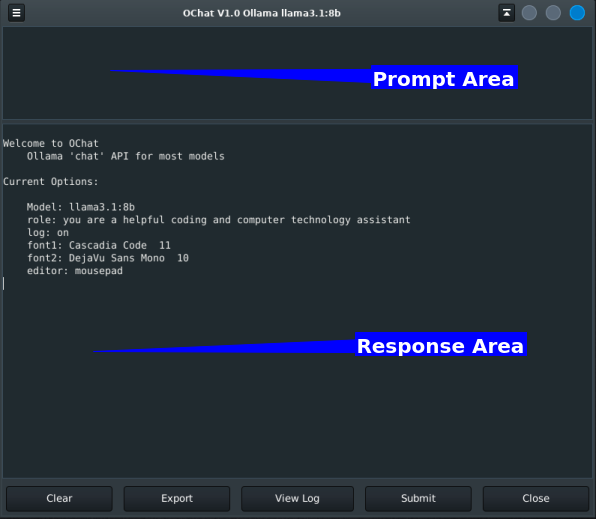
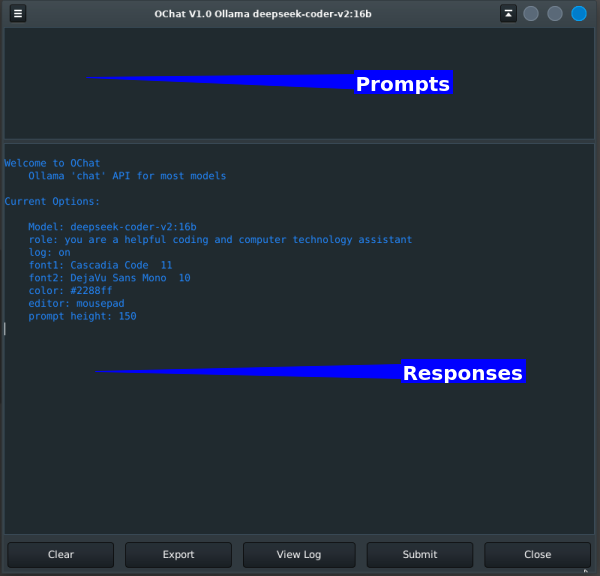
readme

diff --git a/README.md b/README.md
@@ -1,5 +1,5 @@
 # OChat
-### Desktop AI chat for Ollama models
+### Desktop AI chat for [Ollama](https://github.com/ollama/ollama "title") models
 
 _Mostly for Linux (might work on Windows)_
 
@@ -9,34 +9,46 @@ _GUI desktop AI client for conversing with
 Of course you will need the Ollama runtime  
 download from  [Ollams.com](https://ollama.com/ "title")  
 
-Suggest 32G memory and very fast CPU. GPU if you got it.
-    
-![image of the app on the desktop](images/startup.png "GUI")
+Suggest 32G memory and a core i9 CPU, or GPU.
 
-<table>
-<tr><td>Clear</td><td>Starts new conversation</td></tr>
-<tr><td>Export</td><td>Transfers response markdown to HTML in system default browser</td></tr>
-<tr><td>View log</td><td>View log text in the response pane</td></tr>  
-<tr><td>Submit</td><td>Send query to the AI (Ctrl-G)</td></tr>  
-<tr><td>Close</td><td>Exit application</td></tr>  
-</table>
+<center>
+![image of the app on the desktop](images/startup.png "GUI")
+</center>
+
+| Button | Action | 
+| ---: | :--- | 
+|**Clear**|Starts new conversation|
+|**Export**|Transfers response markdown to HTML in system default browser|
+|**View log**|View log text in the response pane|
+|**Submit**|Send query to the AI (Ctrl-G)|
+|**Close**|Exit application|
+
+---
 
 ### Keyboard Commands
 
-        Ctrl-H     This help message
-        Ctrl-F     Find text
-        Ctrl-N     Find next
-        Ctrl-Q     Quit App
-        Ctrl-G     Execute AI request
-        Ctrl-O     Open options in text editor
-        Ctrl-D     Delete Log
-        Alt-Ctrl-C Copy Code in Markup
+| Keys | Action | 
+| ---: | :--- | 
+|**Ctrl-H**|This help message|
+|**Ctrl-F**|Find text|
+|**Ctrl-N**|Find next|
+|**Ctrl-Q**|Quit App|
+|**Ctrl-G**|Execute AI request|
+|**Ctrl-O**|Open options in text editor|
+|**Ctrl-D**|Delete Log|
+|**Alt-Ctrl-C**|Copy Code in Markup|
+
 ---
 
 ### Options.ini
 
-        # model=deepseek-coder-v2:16b
-        # model=qwen2.5-coder:14b
+        # options.ini
+        # -----------
+        # llama3.1:8b
+        # gemma2:9b
+        # qwen2.5-coder:14b
+        # deepseek-coder-v2:16b
+        # 
         model=llama3.1:8b
         role=you are a helpful coding and technology assistant
         log=on
@@ -48,17 +60,18 @@ Suggest 32G memory and very fast CPU. GPU if you got it.
         color=#8888ff
         editor=mousepad
 
-These options are self explanatory.
+Options are pretty self explanatory.
 "color" refers to text color of the response area.
+"height" refers to the height of the _prompt_ area.
 If you've set up the "editor" option, then you can
-edit the options.ini file by hitting Ctrl-O.
+edit the `options.ini` file by hitting Ctrl-O.
 
 ## Using
 
 On exiting the program, the conversation is not ended (deleted). Upon starting the program
 you are prompted to either start a new conversation or continue the previous one.
 
-The conversation is stored in a file called 'conversation.json'
+The conversation is _temporary_ stored in a file called 'conversation.json'
 
 The program only saves each current conversation. Past conversations are not labeled and stored,
 but would be reflected in the 'log' until you delete the log (Ctrl-D).
